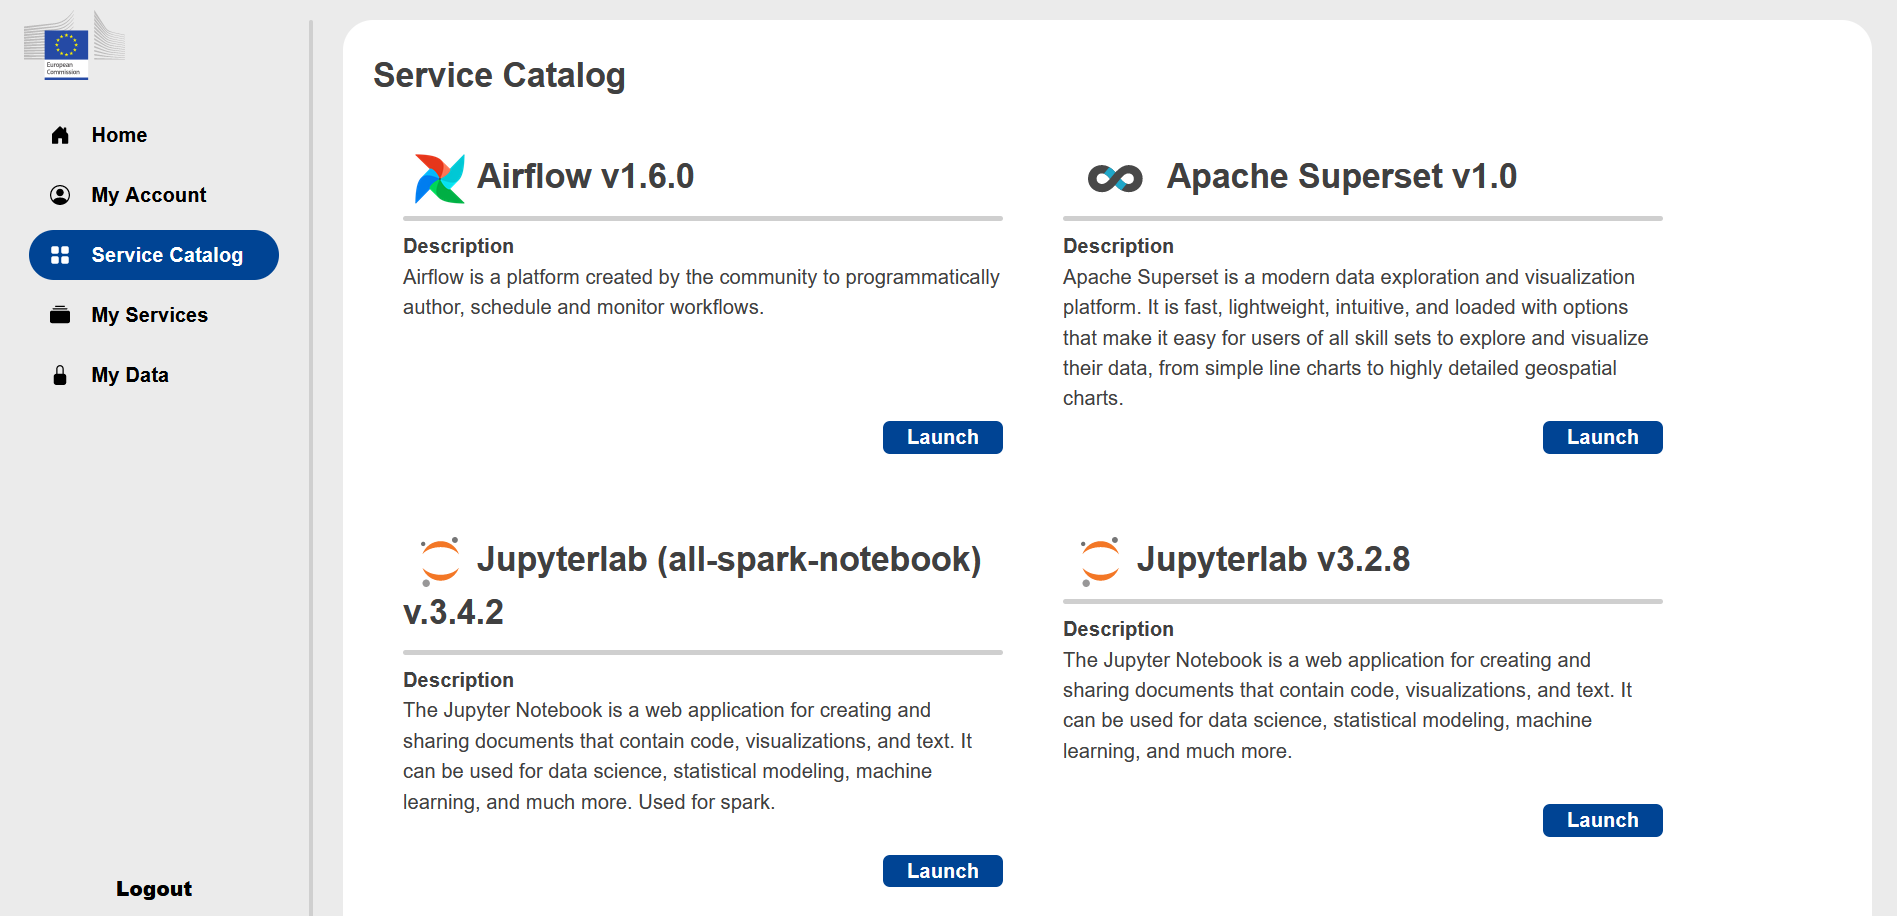
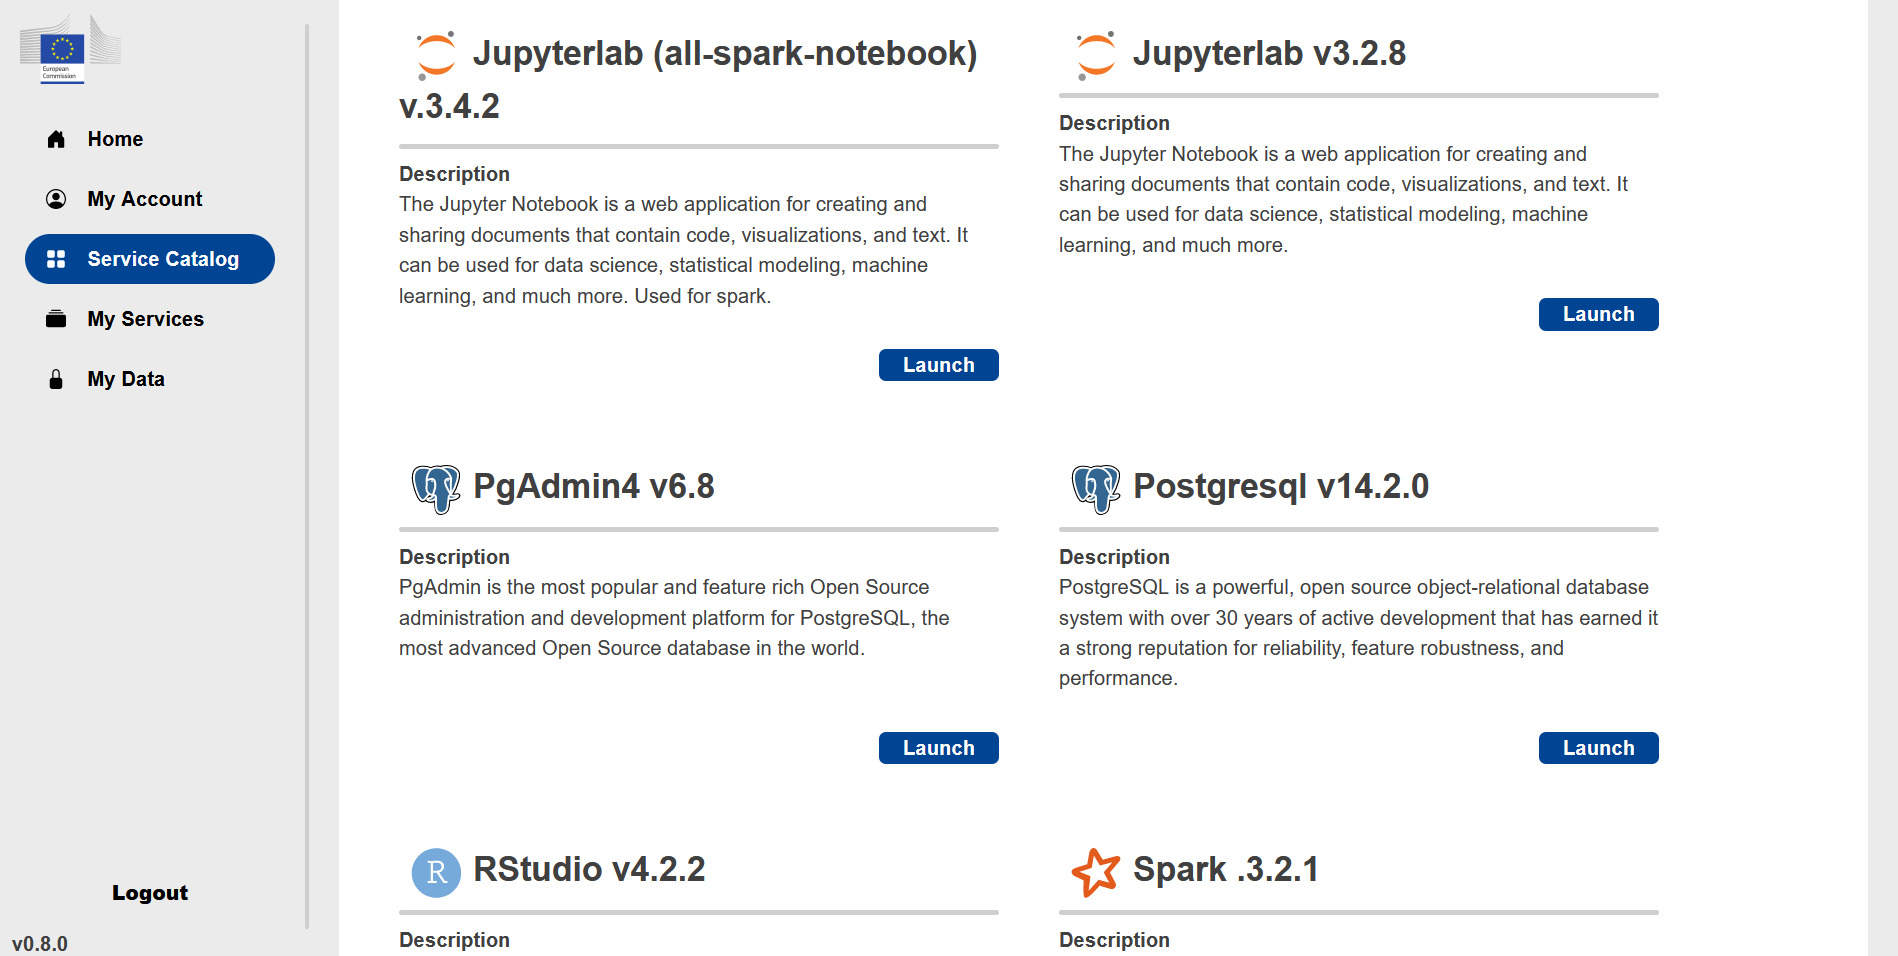
removing airflow

diff --git a/cloud-agnostic.md b/cloud-agnostic.md
@@ -44,16 +44,6 @@ Under the **Service Catalog** you find the available services you can launch.
 
 You can choose from the following services:
 
- ```{dropdown} Apache Airflow v1.6.0
-
-For the Airflow configuration you have to provide:
- - the name
- - if it is shared or private
- - the DSL of your group - there is only one possibility for your group
- - you have to select the configuration - the **Default** gives you predefined resources, for the **Custom** you can change some of them if the default does not work for you
- - you can change the provided username
- - you have to select the storage (NFS PVC name) - there is only one possibility for your group 
- ```
 
  ```{dropdown} Apache Superset v1.0
 
